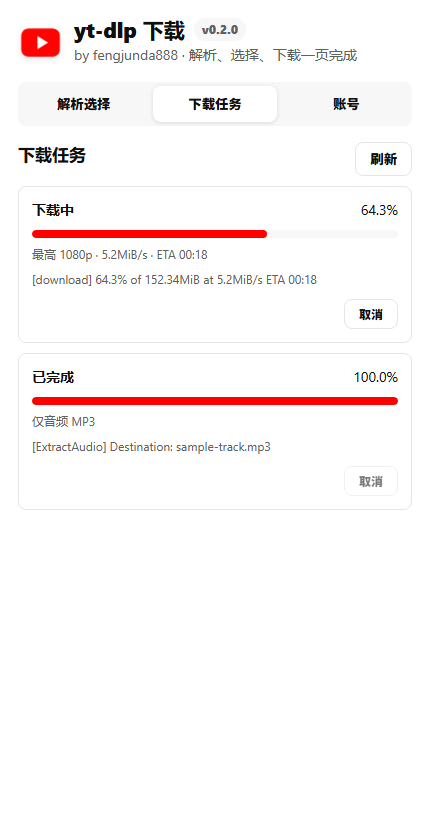
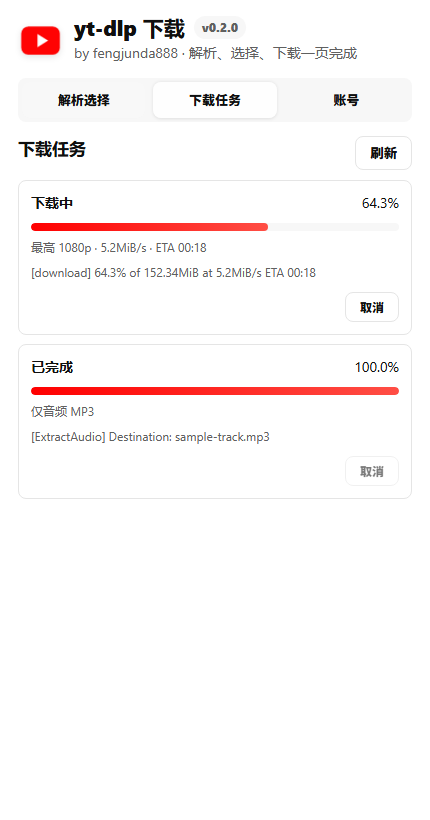
Polish popup visual details

diff --git a/youtube-yt-dlp-extension/extension/styles.css b/youtube-yt-dlp-extension/extension/styles.css
@@ -9,7 +9,9 @@
   --accent-strong: #cc0000;
   --success: #067647;
   --danger: #c00;
-  --shadow: 0 2px 14px rgba(15, 15, 15, 0.08);
+  --warn: #b06000;
+  --shadow: 0 1px 2px rgba(15, 15, 15, 0.06), 0 4px 14px rgba(15, 15, 15, 0.05);
+  --shadow-hover: 0 2px 8px rgba(15, 15, 15, 0.10);
 }
 
 * {
@@ -26,7 +28,7 @@ body {
 
 main {
   min-height: 100vh;
-  padding: 18px;
+  padding: 16px 18px 18px;
   background: #fff;
 }
 
@@ -34,7 +36,7 @@ header {
   display: flex;
   align-items: center;
   gap: 12px;
-  margin-bottom: 16px;
+  margin-bottom: 14px;
 }
 
 .mark {
@@ -91,7 +93,7 @@ p {
   display: grid;
   grid-template-columns: repeat(3, 1fr);
   gap: 8px;
-  margin-bottom: 16px;
+  margin-bottom: 14px;
   padding: 4px;
   border-radius: 8px;
   background: var(--soft);
@@ -107,11 +109,16 @@ button {
   color: white;
   font-weight: 800;
   cursor: pointer;
+  display: inline-flex;
+  align-items: center;
+  justify-content: center;
+  gap: 8px;
   transition: background 120ms ease, transform 120ms ease, box-shadow 120ms ease;
 }
 
 button:hover {
   background: var(--accent-strong);
+  box-shadow: var(--shadow-hover);
 }
 
 button:active {
@@ -119,8 +126,35 @@ button:active {
 }
 
 button:disabled {
-  cursor: wait;
+  cursor: not-allowed;
   opacity: 0.55;
+  box-shadow: none;
+}
+
+button:focus-visible,
+textarea:focus-visible,
+input:focus-visible,
+select:focus-visible {
+  outline: 2px solid #065fd4;
+  outline-offset: 2px;
+}
+
+#resolve::before {
+  content: "";
+  width: 0;
+  height: 0;
+  border-bottom: 6px solid transparent;
+  border-left: 9px solid currentColor;
+  border-top: 6px solid transparent;
+}
+
+#downloadSelected::before {
+  content: "";
+  width: 11px;
+  height: 11px;
+  border-bottom: 2px solid currentColor;
+  border-left: 2px solid currentColor;
+  transform: rotate(-45deg) translateY(-2px);
 }
 
 .tab {
@@ -130,6 +164,7 @@ button:disabled {
   background: transparent;
   color: var(--ink);
   box-shadow: none;
+  font-size: 13px;
 }
 
 .tab:hover {
@@ -221,8 +256,14 @@ select {
   transition: border 120ms ease, box-shadow 120ms ease;
 }
 
+textarea:hover,
+input:hover,
+select:hover {
+  border-color: #c7c7c7;
+}
+
 textarea {
-  min-height: 88px;
+  min-height: 72px;
   resize: vertical;
   padding: 12px;
 }
@@ -243,28 +284,67 @@ select:focus {
 textarea + label,
 input + label,
 select + label {
-  margin-top: 14px;
+  margin-top: 12px;
 }
 
 #status {
-  min-height: 38px;
+  min-height: 0;
   margin-top: 12px;
+  padding: 10px 12px;
+  border: 1px solid var(--line);
+  border-radius: 8px;
+  background: var(--soft);
+  color: var(--muted);
+  display: flex;
+  align-items: center;
+  gap: 8px;
   overflow-wrap: anywhere;
 }
 
+#status::before {
+  content: "";
+  width: 8px;
+  height: 8px;
+  border-radius: 50%;
+  background: #909090;
+  flex: 0 0 auto;
+}
+
+#status[data-state="busy"] {
+  border-color: #f6d58b;
+  background: #fff8e1;
+  color: var(--warn);
+}
+
+#status[data-state="busy"]::before {
+  background: var(--warn);
+}
+
 #status[data-state="error"] {
+  border-color: #f4b6b6;
+  background: #fff0f0;
   color: var(--danger);
 }
 
+#status[data-state="error"]::before {
+  background: var(--danger);
+}
+
 #status[data-state="success"] {
+  border-color: #b7e4cc;
+  background: #edf8f2;
   color: var(--success);
+}
+
+#status[data-state="success"]::before {
+  background: var(--success);
 }
 
 .selection,
 .tasks,
 .accountPanel,
 .accountList {
-  margin-top: 16px;
+  margin-top: 14px;
 }
 
 .sectionHead,
@@ -298,7 +378,7 @@ select + label {
 .tasksList,
 .compactList {
   display: grid;
-  gap: 10px;
+  gap: 9px;
   margin-top: 10px;
 }
 
@@ -306,14 +386,14 @@ select + label {
   padding: 14px;
   color: var(--muted);
   border-style: dashed;
-  background: rgba(255, 255, 255, 0.72);
+  background: #fafafa;
 }
 
 .task,
 .videoItem,
 .accountCard,
 .compactItem {
-  padding: 13px;
+  padding: 12px;
 }
 
 .videoItem {
@@ -321,6 +401,15 @@ select + label {
   gap: 10px;
   margin: 0;
   color: var(--ink);
+  transition: border 120ms ease, box-shadow 120ms ease, transform 120ms ease;
+}
+
+.videoItem:hover,
+.task:hover,
+.compactItem:hover {
+  border-color: #d0d0d0;
+  box-shadow: var(--shadow-hover);
+  transform: translateY(-1px);
 }
 
 .videoItem input {
@@ -341,6 +430,12 @@ select + label {
 .compactItem strong,
 .compactItem span {
   overflow-wrap: anywhere;
+}
+
+.videoBody strong,
+.compactItem strong,
+.taskTop strong {
+  line-height: 1.3;
 }
 
 .videoBody span,
@@ -372,7 +467,7 @@ select + label {
   display: block;
   height: 100%;
   border-radius: inherit;
-  background: var(--accent);
+  background: linear-gradient(90deg, var(--accent), #ff4e45);
 }
 
 .meta,
@@ -392,6 +487,7 @@ select + label {
   justify-content: flex-start;
   gap: 10px;
   margin-top: 10px;
+  box-shadow: none;
 }
 
 .accountCard img {

diff --git a/youtube-yt-dlp-extension/extension/popup.html b/youtube-yt-dlp-extension/extension/popup.html
@@ -13,7 +13,7 @@
         <div class="titleBlock">
           <div class="titleRow">
             <h1>yt-dlp 下载</h1>
-            <span id="version" class="version">v0.1.0</span>
+            <span id="version" class="version">v0.2.0</span>
           </div>
           <p>by fengjunda888 · 解析、选择、下载一页完成</p>
         </div>